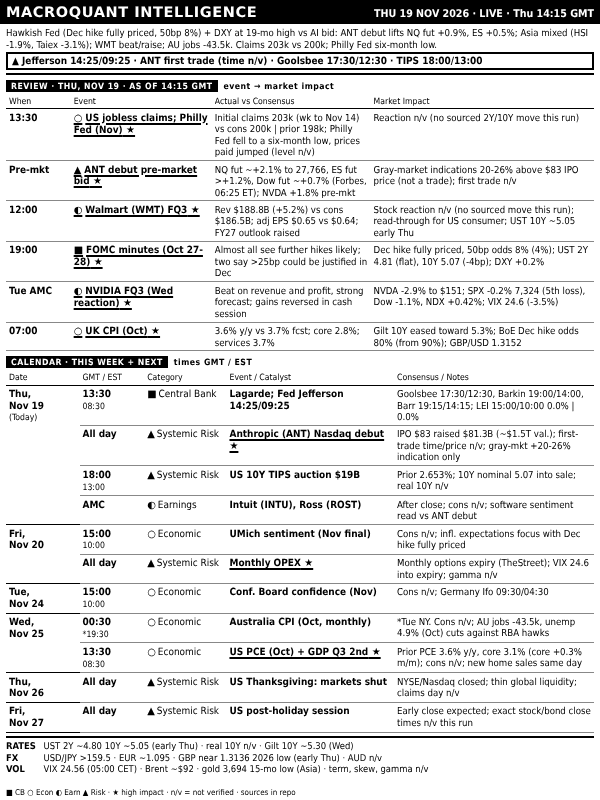
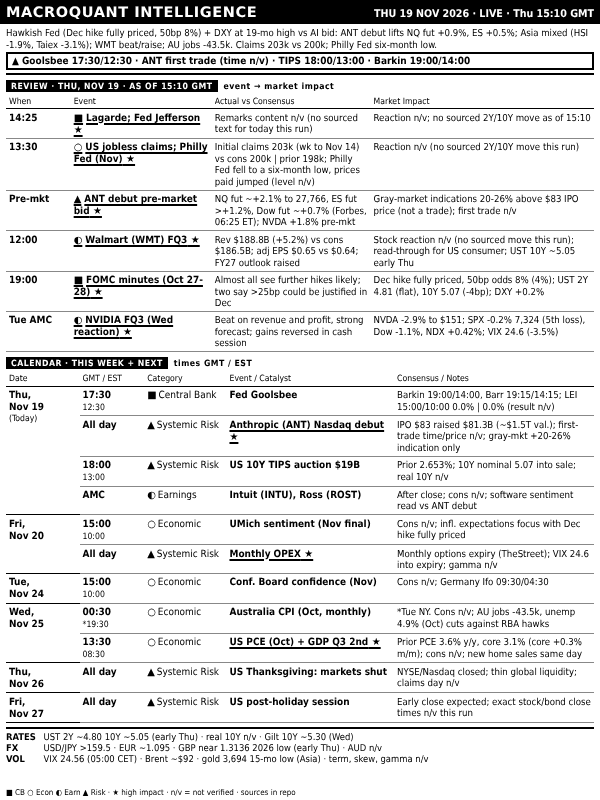
dashboard: THU 19 NOV 2026 LIVE 15:10
Claude-Session: https://claude.ai/code/session_016SJqa3YQuUNscjvkeiesvD

Changed region(s): [[0.0, 0.125, 0.99, 0.9688], [0.03, 0.0625, 0.81, 0.0938], [0.0, 0.625, 0.09, 0.6875]]

diff --git a/out/dashboard.html b/out/dashboard.html
@@ -38,11 +38,11 @@ table.bd{border-collapse:collapse;width:100%;table-layout:fixed;margin-top:1px}
 </style></head><body>
 <div id="root">
  <div class="hdr"><span class="t">MACROQUANT INTELLIGENCE</span>
-  <span class="r">THU 19 NOV 2026 · LIVE · Thu 14:15 GMT</span></div>
- <div class="ban"><div class="rg">Hawkish Fed (Dec hike fully priced, 50bp 8%) + DXY at 19-mo high vs AI bid: ANT debut lifts NQ fut +0.9%, ES +0.5%; Asia mixed (HSI -1.9%, Taiex -3.1%); WMT beat/raise; AU jobs -43.5k. Claims 203k vs 200k; Philly Fed six-month low.</div><div class="al">▲ Jefferson 14:25/09:25 · ANT first trade (time n/v) · Goolsbee 17:30/12:30 · TIPS 18:00/13:00</div></div>
- <div class="sl"><span>REVIEW · THU, NOV 19 · AS OF 14:15 GMT</span>event → market impact</div><table class="bd rv"><colgroup><col style="width:11%"><col style="width:24%"><col style="width:27%"><col></colgroup><tr><th>When</th><th>Event</th><th>Actual vs Consensus</th><th>Market Impact</th></tr><tr class="h"><td class="tm"><b>13:30</b></td><td class="ev"><i>○</i>US jobless claims; Philly Fed (Nov)</td><td class="ac">Initial claims 203k (wk to Nov 14) vs cons 200k | prior 198k; Philly Fed fell to a six-month low, prices paid jumped (level n/v)</td><td class="nt">Reaction n/v (no sourced 2Y/10Y move this run)</td></tr><tr class="h"><td class="tm"><b>Pre-mkt</b></td><td class="ev"><i>▲</i>ANT debut pre-market bid</td><td class="ac">NQ fut ~+2.1% to 27,766, ES fut &gt;+1.2%, Dow fut ~+0.7% (Forbes, 06:25 ET); NVDA +1.8% pre-mkt</td><td class="nt">Gray-market indications 20-26% above $83 IPO price (not a trade); first trade n/v</td></tr><tr class="h"><td class="tm"><b>12:00</b></td><td class="ev"><i>◐</i>Walmart (WMT) FQ3</td><td class="ac">Rev $188.8B (+5.2%) vs cons $186.5B; adj EPS $0.65 vs $0.64; FY27 outlook raised</td><td class="nt">Stock reaction n/v (no sourced move this run); read-through for US consumer; UST 10Y ~5.05 early Thu</td></tr><tr class="h"><td class="tm"><b>19:00</b></td><td class="ev"><i>■</i>FOMC minutes (Oct 27-28)</td><td class="ac">Almost all see further hikes likely; two say &gt;25bp could be justified in Dec</td><td class="nt">Dec hike fully priced, 50bp odds 8% (4%); UST 2Y 4.81 (flat), 10Y 5.07 (-4bp); DXY +0.2%</td></tr><tr class="h"><td class="tm"><b>Tue AMC</b></td><td class="ev"><i>◐</i>NVIDIA FQ3 (Wed reaction)</td><td class="ac">Beat on revenue and profit, strong forecast; gains reversed in cash session</td><td class="nt">NVDA -2.9% to $151; SPX -0.2% 7,324 (5th loss), Dow -1.1%, NDX +0.42%; VIX 24.6 (-3.5%)</td></tr><tr class="h"><td class="tm"><b>07:00</b></td><td class="ev"><i>○</i>UK CPI (Oct)</td><td class="ac">3.6% y/y vs 3.7% fcst; core 2.8%; services 3.7%</td><td class="nt">Gilt 10Y eased toward 5.3%; BoE Dec hike odds 80% (from 90%); GBP/USD 1.3152</td></tr></table>
+  <span class="r">THU 19 NOV 2026 · LIVE · Thu 15:10 GMT</span></div>
+ <div class="ban"><div class="rg">Hawkish Fed (Dec hike fully priced, 50bp 8%) + DXY at 19-mo high vs AI bid: ANT debut lifts NQ fut +0.9%, ES +0.5%; Asia mixed (HSI -1.9%, Taiex -3.1%); WMT beat/raise; AU jobs -43.5k. Claims 203k vs 200k; Philly Fed six-month low.</div><div class="al">▲ Goolsbee 17:30/12:30 · ANT first trade (time n/v) · TIPS 18:00/13:00 · Barkin 19:00/14:00</div></div>
+ <div class="sl"><span>REVIEW · THU, NOV 19 · AS OF 15:10 GMT</span>event → market impact</div><table class="bd rv"><colgroup><col style="width:11%"><col style="width:24%"><col style="width:27%"><col></colgroup><tr><th>When</th><th>Event</th><th>Actual vs Consensus</th><th>Market Impact</th></tr><tr class="h"><td class="tm"><b>14:25</b></td><td class="ev"><i>■</i>Lagarde; Fed Jefferson</td><td class="ac">Remarks content n/v (no sourced text for today this run)</td><td class="nt">Reaction n/v; no sourced 2Y/10Y move as of 15:10</td></tr><tr class="h"><td class="tm"><b>13:30</b></td><td class="ev"><i>○</i>US jobless claims; Philly Fed (Nov)</td><td class="ac">Initial claims 203k (wk to Nov 14) vs cons 200k | prior 198k; Philly Fed fell to a six-month low, prices paid jumped (level n/v)</td><td class="nt">Reaction n/v (no sourced 2Y/10Y move this run)</td></tr><tr class="h"><td class="tm"><b>Pre-mkt</b></td><td class="ev"><i>▲</i>ANT debut pre-market bid</td><td class="ac">NQ fut ~+2.1% to 27,766, ES fut &gt;+1.2%, Dow fut ~+0.7% (Forbes, 06:25 ET); NVDA +1.8% pre-mkt</td><td class="nt">Gray-market indications 20-26% above $83 IPO price (not a trade); first trade n/v</td></tr><tr class="h"><td class="tm"><b>12:00</b></td><td class="ev"><i>◐</i>Walmart (WMT) FQ3</td><td class="ac">Rev $188.8B (+5.2%) vs cons $186.5B; adj EPS $0.65 vs $0.64; FY27 outlook raised</td><td class="nt">Stock reaction n/v (no sourced move this run); read-through for US consumer; UST 10Y ~5.05 early Thu</td></tr><tr class="h"><td class="tm"><b>19:00</b></td><td class="ev"><i>■</i>FOMC minutes (Oct 27-28)</td><td class="ac">Almost all see further hikes likely; two say &gt;25bp could be justified in Dec</td><td class="nt">Dec hike fully priced, 50bp odds 8% (4%); UST 2Y 4.81 (flat), 10Y 5.07 (-4bp); DXY +0.2%</td></tr><tr class="h"><td class="tm"><b>Tue AMC</b></td><td class="ev"><i>◐</i>NVIDIA FQ3 (Wed reaction)</td><td class="ac">Beat on revenue and profit, strong forecast; gains reversed in cash session</td><td class="nt">NVDA -2.9% to $151; SPX -0.2% 7,324 (5th loss), Dow -1.1%, NDX +0.42%; VIX 24.6 (-3.5%)</td></tr></table>
  <div class="sl"><span>CALENDAR · THIS WEEK + NEXT</span>times GMT / EST</div>
- <table class="bd"><colgroup><col style="width:12.5%"><col style="width:11%"><col style="width:14%"><col style="width:28.5%"><col></colgroup><tr><th>Date</th><th>GMT / EST</th><th>Category</th><th>Event / Catalyst</th><th>Consensus / Notes</th></tr><tr class="g0"><td class="dt" rowspan="4">Thu,<br>Nov&nbsp;19<span class="tg">(Today)</span></td><td class="tm"><b>13:30</b><span>08:30</span></td><td class="ct"><i>■</i>Central Bank</td><td class="ev">Lagarde; Fed Jefferson 14:25/09:25</td><td class="nt">Goolsbee 17:30/12:30, Barkin 19:00/14:00, Barr 19:15/14:15; LEI 15:00/10:00 0.0% | 0.0%</td></tr><tr class="h"><td class="tm"><b>All day</b></td><td class="ct"><i>▲</i>Systemic Risk</td><td class="ev">Anthropic (ANT) Nasdaq debut</td><td class="nt">IPO $83 raised $81.3B (~$1.5T val.); first-trade time/price n/v; gray-mkt +20-26% indication only</td></tr><tr class=""><td class="tm"><b>18:00</b><span>13:00</span></td><td class="ct"><i>▲</i>Systemic Risk</td><td class="ev">US 10Y TIPS auction $19B</td><td class="nt">Prior 2.653%; 10Y nominal 5.07 into sale; real 10Y n/v</td></tr><tr class=""><td class="tm"><b>AMC</b></td><td class="ct"><i>◐</i>Earnings</td><td class="ev">Intuit (INTU), Ross (ROST)</td><td class="nt">After close; cons n/v; software sentiment read vs ANT debut</td></tr><tr class="g0"><td class="dt" rowspan="2">Fri,<br>Nov&nbsp;20</td><td class="tm"><b>15:00</b><span>10:00</span></td><td class="ct"><i>○</i>Economic</td><td class="ev">UMich sentiment (Nov final)</td><td class="nt">Cons n/v; infl. expectations focus with Dec hike fully priced</td></tr><tr class="h"><td class="tm"><b>All day</b></td><td class="ct"><i>▲</i>Systemic Risk</td><td class="ev">Monthly OPEX</td><td class="nt">Monthly options expiry (TheStreet); VIX 24.6 into expiry; gamma n/v</td></tr><tr class="g0"><td class="dt" rowspan="1">Tue,<br>Nov&nbsp;24</td><td class="tm"><b>15:00</b><span>10:00</span></td><td class="ct"><i>○</i>Economic</td><td class="ev">Conf. Board confidence (Nov)</td><td class="nt">Cons n/v; Germany Ifo 09:30/04:30</td></tr><tr class="g0"><td class="dt" rowspan="2">Wed,<br>Nov&nbsp;25</td><td class="tm"><b>00:30</b><span>*19:30</span></td><td class="ct"><i>○</i>Economic</td><td class="ev">Australia CPI (Oct, monthly)</td><td class="nt">*Tue NY. Cons n/v; AU jobs -43.5k, unemp 4.9% (Oct) cuts against RBA hawks</td></tr><tr class="h"><td class="tm"><b>13:30</b><span>08:30</span></td><td class="ct"><i>○</i>Economic</td><td class="ev">US PCE (Oct) + GDP Q3 2nd</td><td class="nt">Prior PCE 3.6% y/y, core 3.1% (core +0.3% m/m); cons n/v; new home sales same day</td></tr><tr class="g0"><td class="dt" rowspan="1">Thu,<br>Nov&nbsp;26</td><td class="tm"><b>All day</b></td><td class="ct"><i>▲</i>Systemic Risk</td><td class="ev">US Thanksgiving: markets shut</td><td class="nt">NYSE/Nasdaq closed; thin global liquidity; claims day n/v</td></tr><tr class="g0"><td class="dt" rowspan="1">Fri,<br>Nov&nbsp;27</td><td class="tm"><b>All day</b></td><td class="ct"><i>▲</i>Systemic Risk</td><td class="ev">US post-holiday session</td><td class="nt">Early close expected; exact stock/bond close times n/v this run</td></tr></table>
+ <table class="bd"><colgroup><col style="width:12.5%"><col style="width:11%"><col style="width:14%"><col style="width:28.5%"><col></colgroup><tr><th>Date</th><th>GMT / EST</th><th>Category</th><th>Event / Catalyst</th><th>Consensus / Notes</th></tr><tr class="g0"><td class="dt" rowspan="4">Thu,<br>Nov&nbsp;19<span class="tg">(Today)</span></td><td class="tm"><b>17:30</b><span>12:30</span></td><td class="ct"><i>■</i>Central Bank</td><td class="ev">Fed Goolsbee</td><td class="nt">Barkin 19:00/14:00, Barr 19:15/14:15; LEI 15:00/10:00 0.0% | 0.0% (result n/v)</td></tr><tr class="h"><td class="tm"><b>All day</b></td><td class="ct"><i>▲</i>Systemic Risk</td><td class="ev">Anthropic (ANT) Nasdaq debut</td><td class="nt">IPO $83 raised $81.3B (~$1.5T val.); first-trade time/price n/v; gray-mkt +20-26% indication only</td></tr><tr class=""><td class="tm"><b>18:00</b><span>13:00</span></td><td class="ct"><i>▲</i>Systemic Risk</td><td class="ev">US 10Y TIPS auction $19B</td><td class="nt">Prior 2.653%; 10Y nominal 5.07 into sale; real 10Y n/v</td></tr><tr class=""><td class="tm"><b>AMC</b></td><td class="ct"><i>◐</i>Earnings</td><td class="ev">Intuit (INTU), Ross (ROST)</td><td class="nt">After close; cons n/v; software sentiment read vs ANT debut</td></tr><tr class="g0"><td class="dt" rowspan="2">Fri,<br>Nov&nbsp;20</td><td class="tm"><b>15:00</b><span>10:00</span></td><td class="ct"><i>○</i>Economic</td><td class="ev">UMich sentiment (Nov final)</td><td class="nt">Cons n/v; infl. expectations focus with Dec hike fully priced</td></tr><tr class="h"><td class="tm"><b>All day</b></td><td class="ct"><i>▲</i>Systemic Risk</td><td class="ev">Monthly OPEX</td><td class="nt">Monthly options expiry (TheStreet); VIX 24.6 into expiry; gamma n/v</td></tr><tr class="g0"><td class="dt" rowspan="1">Tue,<br>Nov&nbsp;24</td><td class="tm"><b>15:00</b><span>10:00</span></td><td class="ct"><i>○</i>Economic</td><td class="ev">Conf. Board confidence (Nov)</td><td class="nt">Cons n/v; Germany Ifo 09:30/04:30</td></tr><tr class="g0"><td class="dt" rowspan="2">Wed,<br>Nov&nbsp;25</td><td class="tm"><b>00:30</b><span>*19:30</span></td><td class="ct"><i>○</i>Economic</td><td class="ev">Australia CPI (Oct, monthly)</td><td class="nt">*Tue NY. Cons n/v; AU jobs -43.5k, unemp 4.9% (Oct) cuts against RBA hawks</td></tr><tr class="h"><td class="tm"><b>13:30</b><span>08:30</span></td><td class="ct"><i>○</i>Economic</td><td class="ev">US PCE (Oct) + GDP Q3 2nd</td><td class="nt">Prior PCE 3.6% y/y, core 3.1% (core +0.3% m/m); cons n/v; new home sales same day</td></tr><tr class="g0"><td class="dt" rowspan="1">Thu,<br>Nov&nbsp;26</td><td class="tm"><b>All day</b></td><td class="ct"><i>▲</i>Systemic Risk</td><td class="ev">US Thanksgiving: markets shut</td><td class="nt">NYSE/Nasdaq closed; thin global liquidity; claims day n/v</td></tr><tr class="g0"><td class="dt" rowspan="1">Fri,<br>Nov&nbsp;27</td><td class="tm"><b>All day</b></td><td class="ct"><i>▲</i>Systemic Risk</td><td class="ev">US post-holiday session</td><td class="nt">Early close expected; exact stock/bond close times n/v this run</td></tr></table>
  <div class="lv"><div><b>RATES</b>UST 2Y ~4.80 10Y ~5.05 (early Thu) · real 10Y n/v · Gilt 10Y ~5.30 (Wed)</div><div><b>FX</b>USD/JPY &gt;159.5 · EUR ~1.095 · GBP near 1.3136 2026 low (early Thu) · AUD n/v</div><div><b>VOL</b>VIX 24.56 (05:00 CET) · Brent ~$92 · gold 3,694 15-mo low (Asia) · term, skew, gamma n/v</div></div>
 </div>
 <div class="foot">■ CB ○ Econ ◐ Earn ▲ Risk · ★ high impact · n/v = not verified · sources in repo</div>
